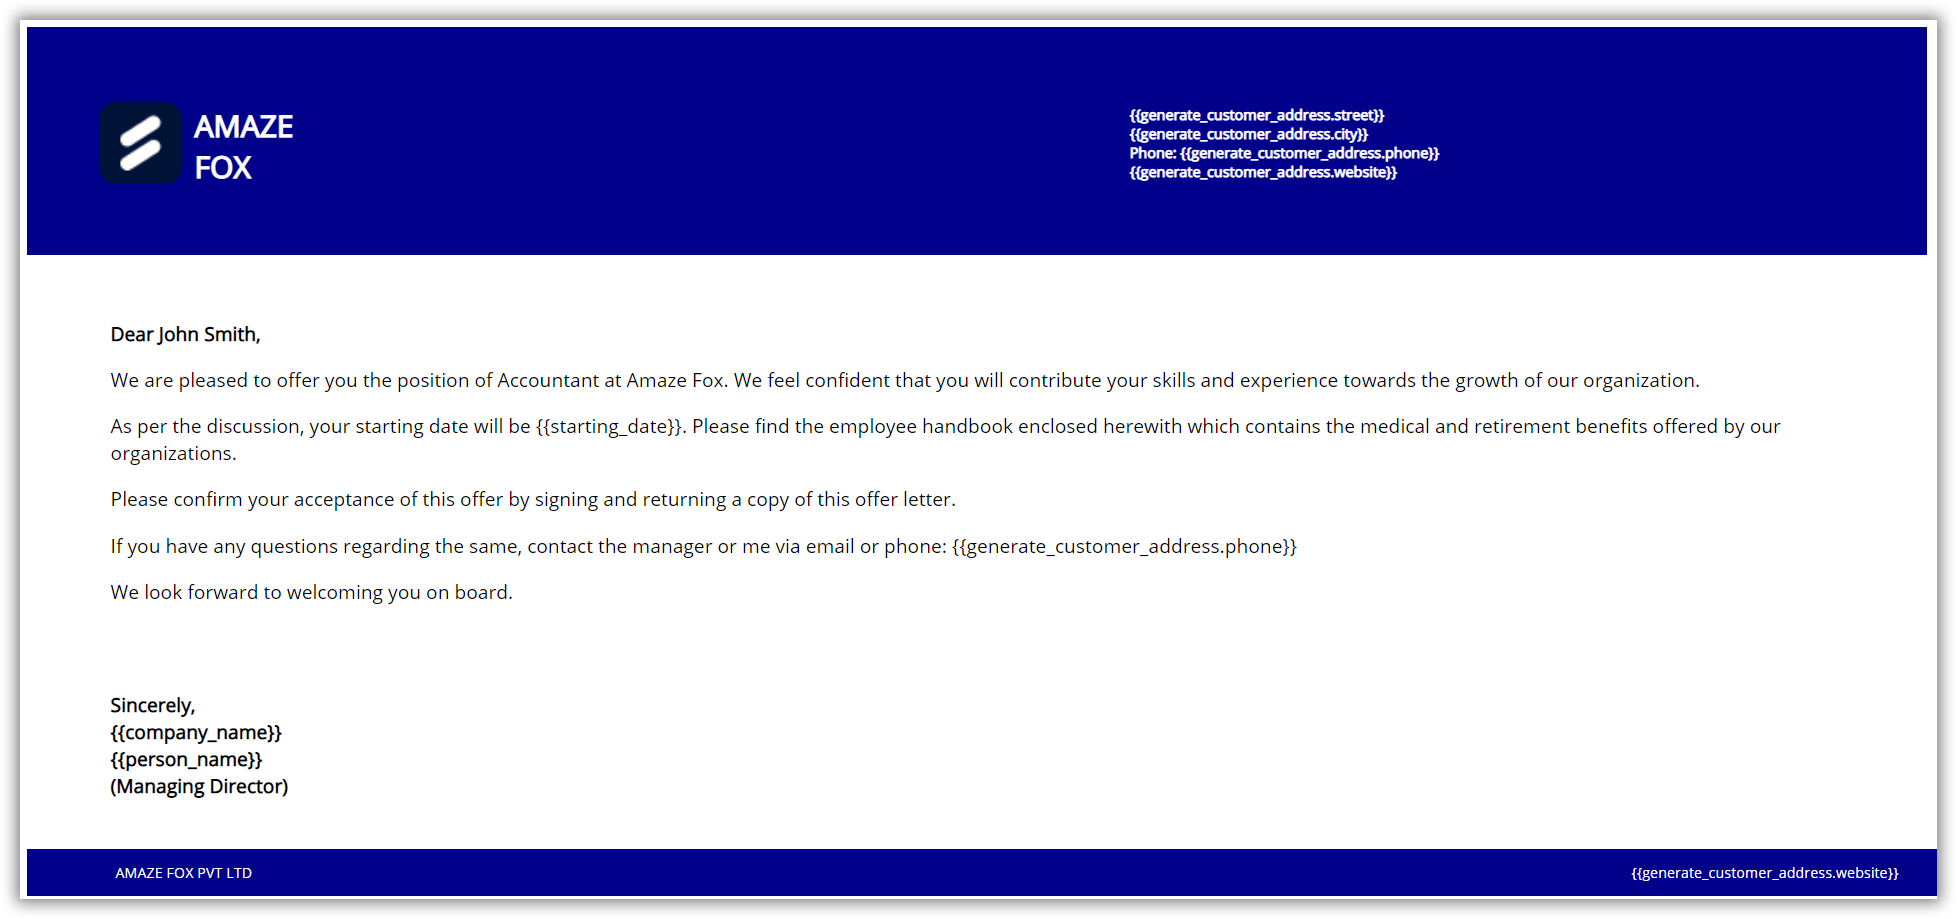
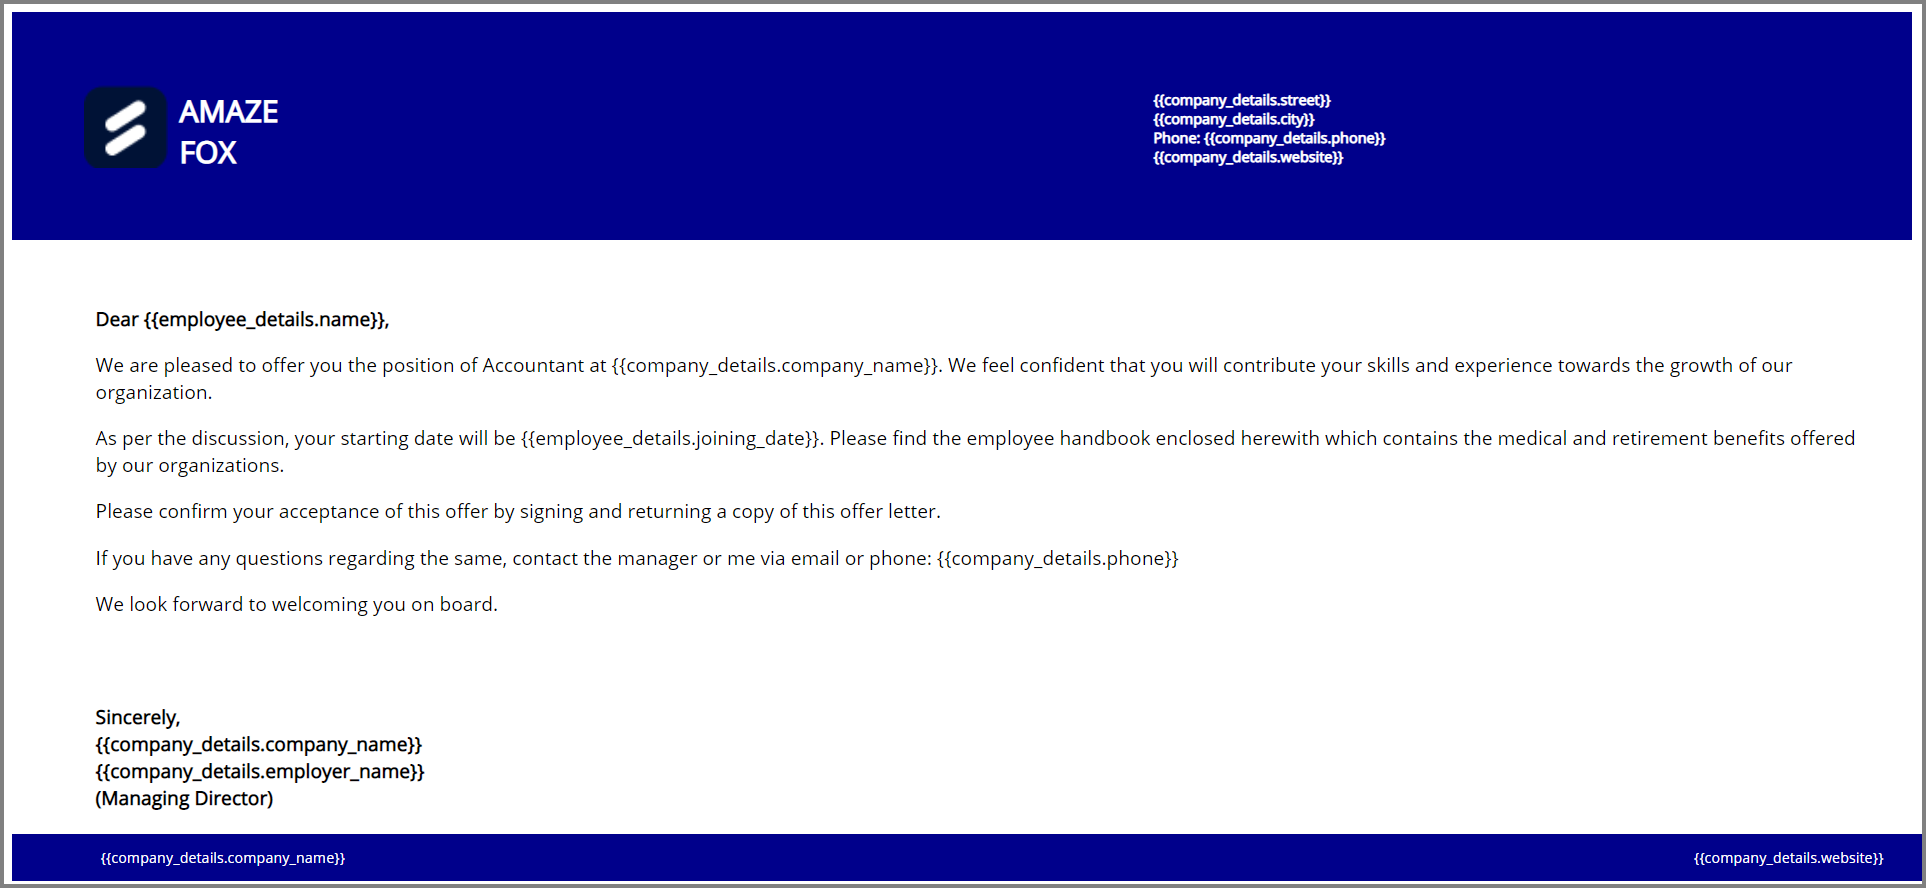
Update job offer letter HTML and JSON data

Changed region(s): [[0.0, 0.0, 1.0, 1.0], [0.5607, 0.0912, 0.7477, 0.2128]]

diff --git a/Application/HTML_To_PDF_Blazor/wwwroot/JobOfferLetter/index.html b/Application/HTML_To_PDF_Blazor/wwwroot/JobOfferLetter/index.html
@@ -15,30 +15,30 @@
             </b>
         </div>
         <div style="font-size: 12px; margin-left: 300px; margin-top: 55px">
-            <div><b>{{generate_customer_address.street}} </b></div>
-            <div><b>{{generate_customer_address.city}} </b></div>
-            <div><b>Phone: {{generate_customer_address.phone}} </b></div>
-            <div><b>{{generate_customer_address.website}} </b></div>
+            <div><b>{{company_details.street}} </b></div>
+            <div><b>{{company_details.city}} </b></div>
+            <div><b>Phone: {{company_details.phone}} </b></div>
+            <div><b>{{company_details.website}} </b></div>
         </div>
     </div>
     <br />
     <div class="body-content" style="margin-left: 50px;">
-        <p><b>Dear John Smith,</b></p>
-        <p>We are pleased to offer you the position of Accountant at Amaze Fox. We feel confident that you will contribute your skills and experience towards the growth of our organization.</p>
-        <p>As per the discussion, your starting date will be {{starting_date}}. Please find the employee handbook enclosed herewith which contains the medical and retirement benefits offered by our organizations.</p>
+        <p><b>Dear {{employee_details.name}},</b></p>
+        <p>We are pleased to offer you the position of Accountant at {{company_details.company_name}}. We feel confident that you will contribute your skills and experience towards the growth of our organization.</p>
+        <p>As per the discussion, your starting date will be {{employee_details.joining_date}}. Please find the employee handbook enclosed herewith which contains the medical and retirement benefits offered by our organizations.</p>
         <p>Please confirm your acceptance of this offer by signing and returning a copy of this offer letter.</p>
-        <p>If you have any questions regarding the same, contact the manager or me via email or phone: {{generate_customer_address.phone}}</p>
+        <p>If you have any questions regarding the same, contact the manager or me via email or phone: {{company_details.phone}}</p>
         <p>We look forward to welcoming you on board.</p>
     </div>
 
     <div class="body-content" style="margin-left: 50px;">
-        <p><b>Sincerely,<br /> {{company_name}} <br />{{person_name}} <br />(Managing Director)</b></p>
+        <p><b>Sincerely,<br /> {{company_details.company_name}} <br />{{company_details.employer_name}} <br />(Managing Director)</b></p>
     </div>
 
     <div id="footer">
         <div class="footer-columns" style="margin-left: 50px;">
-            <p>AMAZE FOX PVT LTD</p>
-            <p>{{generate_customer_address.website}}</p>
+            <p>{{company_details.company_name}}</p>
+            <p>{{company_details.website}}</p>
         </div>
     </div>
 </body>

diff --git a/Templates/JobOfferLetter/index.html b/Templates/JobOfferLetter/index.html
@@ -15,30 +15,30 @@
             </b>
         </div>
         <div style="font-size: 12px; margin-left: 300px; margin-top: 55px">
-            <div><b>{{generate_customer_address.street}} </b></div>
-            <div><b>{{generate_customer_address.city}} </b></div>
-            <div><b>Phone: {{generate_customer_address.phone}} </b></div>
-            <div><b>{{generate_customer_address.website}} </b></div>
+            <div><b>{{company_details.street}} </b></div>
+            <div><b>{{company_details.city}} </b></div>
+            <div><b>Phone: {{company_details.phone}} </b></div>
+            <div><b>{{company_details.website}} </b></div>
         </div>
     </div>
     <br />
     <div class="body-content" style="margin-left: 50px;">
-        <p><b>Dear John Smith,</b></p>
-        <p>We are pleased to offer you the position of Accountant at Amaze Fox. We feel confident that you will contribute your skills and experience towards the growth of our organization.</p>
-        <p>As per the discussion, your starting date will be {{starting_date}}. Please find the employee handbook enclosed herewith which contains the medical and retirement benefits offered by our organizations.</p>
+        <p><b>Dear {{employee_details.name}},</b></p>
+        <p>We are pleased to offer you the position of Accountant at {{company_details.company_name}}. We feel confident that you will contribute your skills and experience towards the growth of our organization.</p>
+        <p>As per the discussion, your starting date will be {{employee_details.joining_date}}. Please find the employee handbook enclosed herewith which contains the medical and retirement benefits offered by our organizations.</p>
         <p>Please confirm your acceptance of this offer by signing and returning a copy of this offer letter.</p>
-        <p>If you have any questions regarding the same, contact the manager or me via email or phone: {{generate_customer_address.phone}}</p>
+        <p>If you have any questions regarding the same, contact the manager or me via email or phone: {{company_details.phone}}</p>
         <p>We look forward to welcoming you on board.</p>
     </div>
 
     <div class="body-content" style="margin-left: 50px;">
-        <p><b>Sincerely,<br /> {{company_name}} <br />{{person_name}} <br />(Managing Director)</b></p>
+        <p><b>Sincerely,<br /> {{company_details.company_name}} <br />{{company_details.employer_name}} <br />(Managing Director)</b></p>
     </div>
 
     <div id="footer">
         <div class="footer-columns" style="margin-left: 50px;">
-            <p>AMAZE FOX PVT LTD</p>
-            <p>{{generate_customer_address.website}}</p>
+            <p>{{company_details.company_name}}</p>
+            <p>{{company_details.website}}</p>
         </div>
     </div>
 </body>

diff --git a/API/PDF_generation_API/PDF_generation_API/HtmlToPdfConversion.cs b/API/PDF_generation_API/PDF_generation_API/HtmlToPdfConversion.cs
@@ -22,7 +22,7 @@ namespace PDF_generation_API
 
 
             //Initialize HTML to PDF converter with Blink rendering engine
-            HtmlToPdfConverter htmlConverter = new HtmlToPdfConverter(HtmlRenderingEngine.Blink);
+            HtmlToPdfConverter htmlConverter = new HtmlToPdfConverter();
             BlinkConverterSettings blinkConverterSettings = new BlinkConverterSettings();
             if (options.Width != 0 && options.Height != 0)
             {

diff --git a/README.md b/README.md
@@ -38,30 +38,30 @@ N> To learn more about the Scriban scripting language, refer to the [documentati
             </b>
         </div>
         <div style="font-size: 12px; margin-left: 300px; margin-top: 55px">
-            <div><b>{{generate_customer_address.street}} </b></div>
-            <div><b>{{generate_customer_address.city}} </b></div>
-            <div><b>Phone: {{generate_customer_address.phone}} </b></div>
-            <div><b>{{generate_customer_address.website}} </b></div>
+            <div><b>{{company_details.street}} </b></div>
+            <div><b>{{company_details.city}} </b></div>
+            <div><b>Phone: {{company_details.phone}} </b></div>
+            <div><b>{{company_details.website}} </b></div>
         </div>
     </div>
     <br />
     <div class="body-content" style="margin-left: 50px;">
-        <p><b>Dear John Smith,</b></p>
-        <p>We are pleased to offer you the position of Accountant at Amaze Fox. We feel confident that you will contribute your skills and experience towards the growth of our organization.</p>
-        <p>As per the discussion, your starting date will be {{starting_date}}. Please find the employee handbook enclosed herewith which contains the medical and retirement benefits offered by our organizations.</p>
+        <p><b>Dear {{employee_details.name}},</b></p>
+        <p>We are pleased to offer you the position of Accountant at {{company_details.company_name}}. We feel confident that you will contribute your skills and experience towards the growth of our organization.</p>
+        <p>As per the discussion, your starting date will be {{employee_details.joining_date}}. Please find the employee handbook enclosed herewith which contains the medical and retirement benefits offered by our organizations.</p>
         <p>Please confirm your acceptance of this offer by signing and returning a copy of this offer letter.</p>
-        <p>If you have any questions regarding the same, contact the manager or me via email or phone: {{generate_customer_address.phone}}</p>
+        <p>If you have any questions regarding the same, contact the manager or me via email or phone: {{company_details.phone}}</p>
         <p>We look forward to welcoming you on board.</p>
     </div>
 
     <div class="body-content" style="margin-left: 50px;">
-        <p><b>Sincerely,<br /> {{company_name}} <br />{{person_name}} <br />(Managing Director)</b></p>
+        <p><b>Sincerely,<br /> {{company_details.company_name}} <br />{{company_details.employer_name}} <br />(Managing Director)</b></p>
     </div>
 
     <div id="footer">
         <div class="footer-columns" style="margin-left: 50px;">
-            <p>AMAZE FOX PVT LTD</p>
-            <p>{{generate_customer_address.website}}</p>
+            <p>{{company_details.company_name}}</p>
+            <p>{{company_details.website}}</p>
         </div>
     </div>
 </body>
@@ -233,7 +233,7 @@ var template = Scriban.Template.Parse(pageContent);
 var result = template.Render(templateCtx);
 
 //Initialize HTML to PDF converter with Blink rendering engine
-HtmlToPdfConverter htmlConverter = new HtmlToPdfConverter(HtmlRenderingEngine.Blink);
+HtmlToPdfConverter htmlConverter = new HtmlToPdfConverter();
 BlinkConverterSettings blinkConverterSettings = new BlinkConverterSettings();
 if (options.Width != 0 && options.Height != 0)
 {
